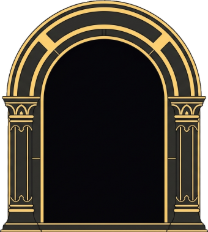
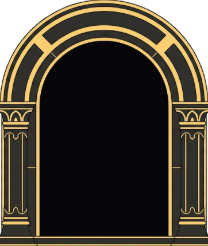
接入灯与门的贴图，新增抠图工具
四张素材（两盏灯、两扇门）从 JPG 里抠出背景后接入。影灵的门换成新上传
的那版哥特拱门，与光灵的金门是同一套语言。

抠图工具 tools/keyout.js：环境里没有图像库，借 Chromium 的 canvas
解码与重编码。几个关键点都是实测踩出来的：
- 背景调色板只从四角取样。物件可能压在某条边上（光灵那扇门底部被裁切、
  门体直接贴着下边缘），沿整圈统计会把物件自身的颜色算作背景，
  结果整扇门被抠得只剩描边。
- 调色板要补上两两之间的中间色。JPEG 让棋盘格边界发虚，不补的话
  洪水填充会被每一道虚边挡住（实测只抠掉 12%）。
- 洪水填充入栈即标记。否则非背景像素会被每个邻居反复入栈，
  几百万像素的图会把栈撑爆。
- 包围盒用行列直方图配合阈值，而非连通块标记 —— 后者在数百万像素上
  太慢，而这里只需滤掉角落的零星残留。
- 远处有大面积背景色差残留时（那盏煤油灯），先按比例预裁到物件区域，
  比反复调容差稳。

灯的贴图按原比例绘制、底边对齐碰撞盒，碰撞盒仍是 30x30 不变；
灯芯光晕画在贴图之上，正好盖住玻璃罩里残留的棋盘格。

16 关回归全部通过。

Claude-Session: https://claude.ai/code/session_01CGt4YuyMGXBHzwXhchHEHk

Changed region(s): [[0.0, 0.0, 1.0, 1.0]]

diff --git a/tools/keyout.js b/tools/keyout.js
@@ -1,0 +1,119 @@
+// 从 JPG 里抠掉「画上去的」棋盘格/纯色背景。
+// 环境里没有图像库，借 Chromium 的 canvas 解码与重编码。
+const { chromium } = require('playwright');
+const fs = require('fs'), path = require('path');
+
+const PORT = 8767;
+const jobs = JSON.parse(process.argv[2]);
+
+(async () => {
+  const browser = await chromium.launch({
+    executablePath: '/opt/pw-browsers/chromium-1194/chrome-linux/chrome',
+    // 只访问本地；Chromium 的 phone-home 请求经代理会挂住
+    args: ['--no-proxy-server', '--disable-background-networking', '--disable-component-update'],
+  });
+  const page = await browser.newPage();
+  page.on('pageerror', e => console.log('  [pageerror]', e.message));
+  await page.goto(`http://127.0.0.1:${PORT}/`);
+
+  for (const job of jobs) {
+    const url = '/' + job.in.split('/').map(encodeURIComponent).join('/');
+    const res = await page.evaluate(async ([url, outW, tol, bT, crop]) => {
+      const im = new Image();
+      const ok = await new Promise(r => { im.onload = () => r(1); im.onerror = () => r(0); im.src = url; });
+      if (!ok) return { err: '图片加载失败' };
+
+      // 先缩到工作分辨率：最终只要一两百像素宽
+      // 可选的预裁切：有些图远处有大面积的背景色差残留，
+      // 先裁到物件所在区域，比反复调容差稳得多
+      const cr = crop || [0, 0, 1, 1];
+      const sx = im.naturalWidth * cr[0], sy = im.naturalHeight * cr[1];
+      const sw = im.naturalWidth * (cr[2]-cr[0]), sh = im.naturalHeight * (cr[3]-cr[1]);
+      const k = Math.min(1, 800 / Math.max(sw, sh));
+      const W = Math.round(sw * k), H = Math.round(sh * k);
+      const cv = document.createElement('canvas'); cv.width = W; cv.height = H;
+      const cx = cv.getContext('2d', { willReadFrequently: true });
+      cx.imageSmoothingQuality = 'high';
+      cx.drawImage(im, sx, sy, sw, sh, 0, 0, W, H);
+      const img = cx.getImageData(0, 0, W, H), p = img.data;
+
+      // 从四角取样背景调色板：物件可能压在某条边上（底部被裁的门），
+      // 沿整圈统计会把物件自身的颜色算成背景
+      const S = Math.max(10, Math.round(Math.min(W, H) * 0.05));
+      const pal = [];
+      for (const [ox, oy] of [[0,0],[W-S,0],[0,H-S],[W-S,H-S]])
+        for (let dy = 0; dy < S; dy++) for (let dx = 0; dx < S; dx++) {
+          const i = ((oy+dy)*W + ox+dx) * 4;
+          let hit = false;
+          for (const q of pal)
+            if (Math.abs(q[0]-p[i]) + Math.abs(q[1]-p[i+1]) + Math.abs(q[2]-p[i+2]) <= 14) { q[3]++; hit = true; break; }
+          if (!hit) pal.push([p[i], p[i+1], p[i+2], 1]);
+        }
+      const total = 4*S*S;
+      let bg = pal.filter(q => q[3] > total * 0.05).sort((a,b) => b[3]-a[3]).slice(0, 3);
+      // 补上两两之间的中间色：JPEG 让格子边界发虚，不补的话填充会被虚边挡住
+      const mids = [];
+      for (let a = 0; a < bg.length; a++) for (let b = a+1; b < bg.length; b++)
+        mids.push([(bg[a][0]+bg[b][0])>>1, (bg[a][1]+bg[b][1])>>1, (bg[a][2]+bg[b][2])>>1]);
+      bg = bg.concat(mids);
+
+      // 用 15 位量化色做查表，避免每像素都遍历调色板
+      const lut = new Uint8Array(32768);
+      for (let r = 0; r < 32; r++) for (let g = 0; g < 32; g++) for (let b = 0; b < 32; b++) {
+        const R = r*8+4, G = g*8+4, B = b*8+4;
+        for (const q of bg)
+          if (Math.abs(R-q[0]) + Math.abs(G-q[1]) + Math.abs(B-q[2]) <= tol) { lut[(r<<10)|(g<<5)|b] = 1; break; }
+      }
+      const isBg = i => lut[((p[i]>>3)<<10) | ((p[i+1]>>3)<<5) | (p[i+2]>>3)];
+
+      // 洪水填充：只删从边缘连通进来的背景，物件内部的同色区域保留。
+      // 入栈即标记，否则非背景像素会被邻居反复入栈把栈撑爆
+      const seen = new Uint8Array(W*H), st = new Int32Array(W*H);
+      let sp = 0;
+      const push = q => { if (!seen[q]) { seen[q] = 1; st[sp++] = q; } };
+      for (let i = 0; i < W; i++) { push(i); push((H-1)*W + i); }
+      for (let j = 0; j < H; j++) { push(j*W); push(j*W + W-1); }
+      let keyed = 0;
+      while (sp > 0) {
+        const q = st[--sp], i = q*4;
+        if (!isBg(i)) continue;
+        p[i+3] = 0; keyed++;
+        const px = q % W, py = (q / W) | 0;
+        if (px > 0) push(q-1);
+        if (px < W-1) push(q+1);
+        if (py > 0) push(q-W);
+        if (py < H-1) push(q+W);
+      }
+      cx.putImageData(img, 0, 0);
+
+      // 行列直方图求包围盒：滤掉角落零星残留，比连通块标记快得多
+      const rowN = new Int32Array(H), colN = new Int32Array(W);
+      for (let q = 0; q < W*H; q++) if (p[q*4+3] > 16) { rowN[(q/W)|0]++; colN[q%W]++; }
+      let maxR = 0, maxC = 0;
+      for (let i = 0; i < H; i++) maxR = Math.max(maxR, rowN[i]);
+      for (let i = 0; i < W; i++) maxC = Math.max(maxC, colN[i]);
+      const rT = Math.max(2, maxR*bT), cT = Math.max(2, maxC*bT);   // 阈值放高才滤得掉稀疏残留
+      let y0 = 0, y1 = H-1, x0 = 0, x1 = W-1;
+      while (y0 < y1 && rowN[y0] < rT) y0++;
+      while (y1 > y0 && rowN[y1] < rT) y1--;
+      while (x0 < x1 && colN[x0] < cT) x0++;
+      while (x1 > x0 && colN[x1] < cT) x1--;
+
+      const bw = x1-x0+1, bh = y1-y0+1;
+      const out = document.createElement('canvas');
+      out.width = outW; out.height = Math.max(1, Math.round(outW * bh / bw));
+      const oc = out.getContext('2d');
+      oc.imageSmoothingQuality = 'high';
+      oc.drawImage(cv, x0, y0, bw, bh, 0, 0, out.width, out.height);
+      return { url: out.toDataURL('image/png'), src: im.naturalWidth+'x'+im.naturalHeight,
+               box: bw+'x'+bh, out: out.width+'x'+out.height,
+               keyed: Math.round(100*keyed/(W*H)) + '%',
+               pal: bg.slice(0,3).map(q => q[0]+','+q[1]+','+q[2]).join(' / ') };
+    }, [url, job.w, job.tol ?? 46, job.bT ?? 0.10, job.crop || null]);
+
+    if (res.err) { console.log(path.basename(job.in), res.err); continue; }
+    fs.writeFileSync(job.out, Buffer.from(res.url.split(',')[1], 'base64'));
+    console.log(`${path.basename(job.in).slice(0, 44).padEnd(46)} 抠掉${res.keyed.padStart(4)}  物件${res.box.padEnd(9)} 背景[${res.pal}]`);
+  }
+  await browser.close();
+})().catch(e => { console.log('ERR', e.message); process.exit(1); });

diff --git a/src/engine.js b/src/engine.js
@@ -658,6 +658,8 @@
     bg: 'art/bg.jpg',
     doorLumen: 'art/door-lumen.png',
     doorUmbra: 'art/door-umbra.png',
+    lampFixed: 'art/lamp-fixed.png',
+    lampPush: 'art/lamp-push.png',
   });
 
   var tileLayer = null;
@@ -833,6 +835,21 @@
   function drawLamps() {
     level.lamps.forEach(function (lamp) {
       var cx = lamp.x + lamp.w / 2, cy = lamp.y + lamp.h / 2;
+      var artLamp = lamp.fixed ? ART.lampFixed : ART.lampPush;
+      if (artLamp) {
+        // 贴图灯：按原比例画，底边对齐碰撞盒底部（碰撞盒仍是 30x30，贴图只是外观）
+        var lw = lamp.w + 4;
+        var lh = lw * artLamp.naturalHeight / artLamp.naturalWidth;
+        ctx.drawImage(artLamp, cx - lw / 2, lamp.y + lamp.h - lh, lw, lh);
+        var core = ctx.createRadialGradient(cx, cy - lh * 0.18, 0, cx, cy - lh * 0.18, lw * 0.75);
+        core.addColorStop(0, 'rgba(255, 246, 214, 0.95)');   // 灯芯：正好盖住玻璃罩里的残留
+        core.addColorStop(0.5, 'rgba(255, 208, 130, 0.45)');
+        core.addColorStop(1, 'rgba(255, 180, 90, 0)');
+        ctx.fillStyle = core;
+        ctx.fillRect(cx - lw, cy - lh, lw * 2, lh * 1.5);
+        return;
+      }
+
       if (lamp.fixed) {                            // 固定灯：吊在支架上，推不动
         ctx.strokeStyle = 'rgba(150, 150, 170, 0.45)';
         ctx.lineWidth = 2;
